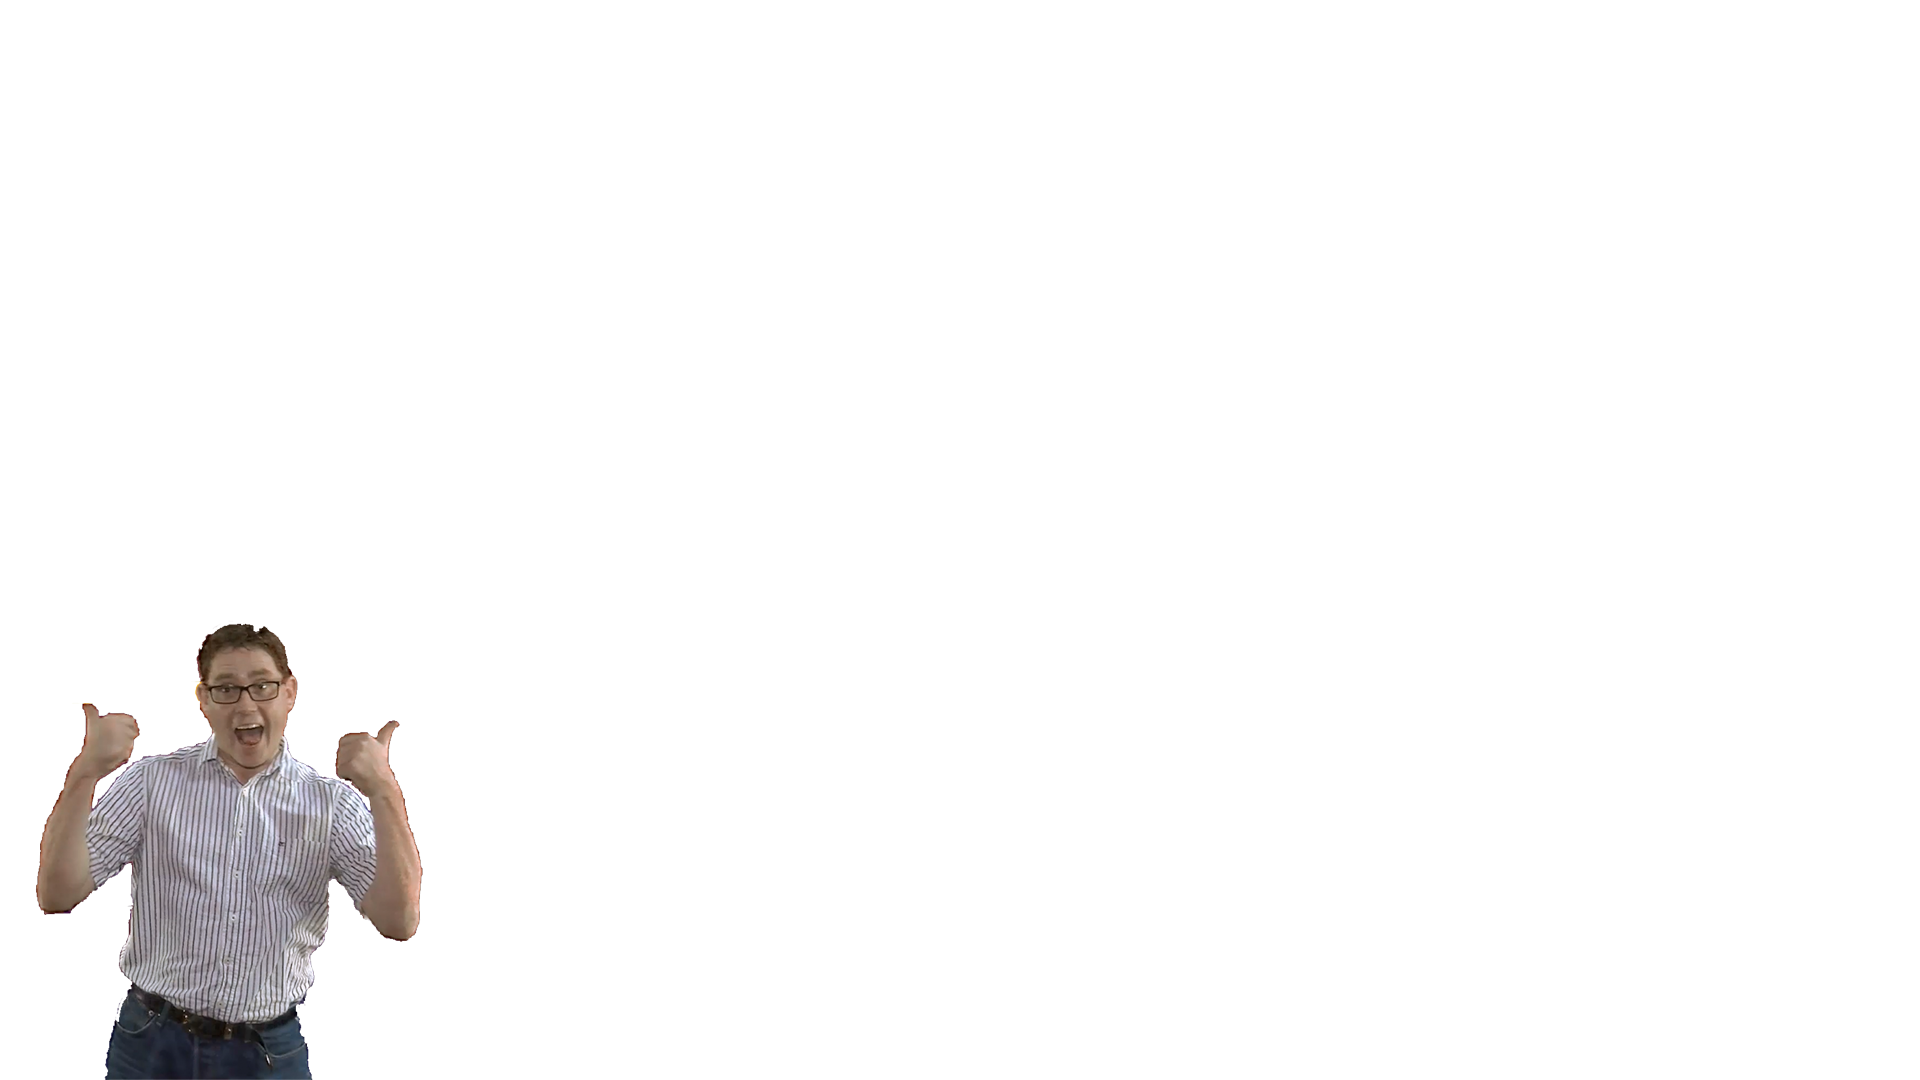
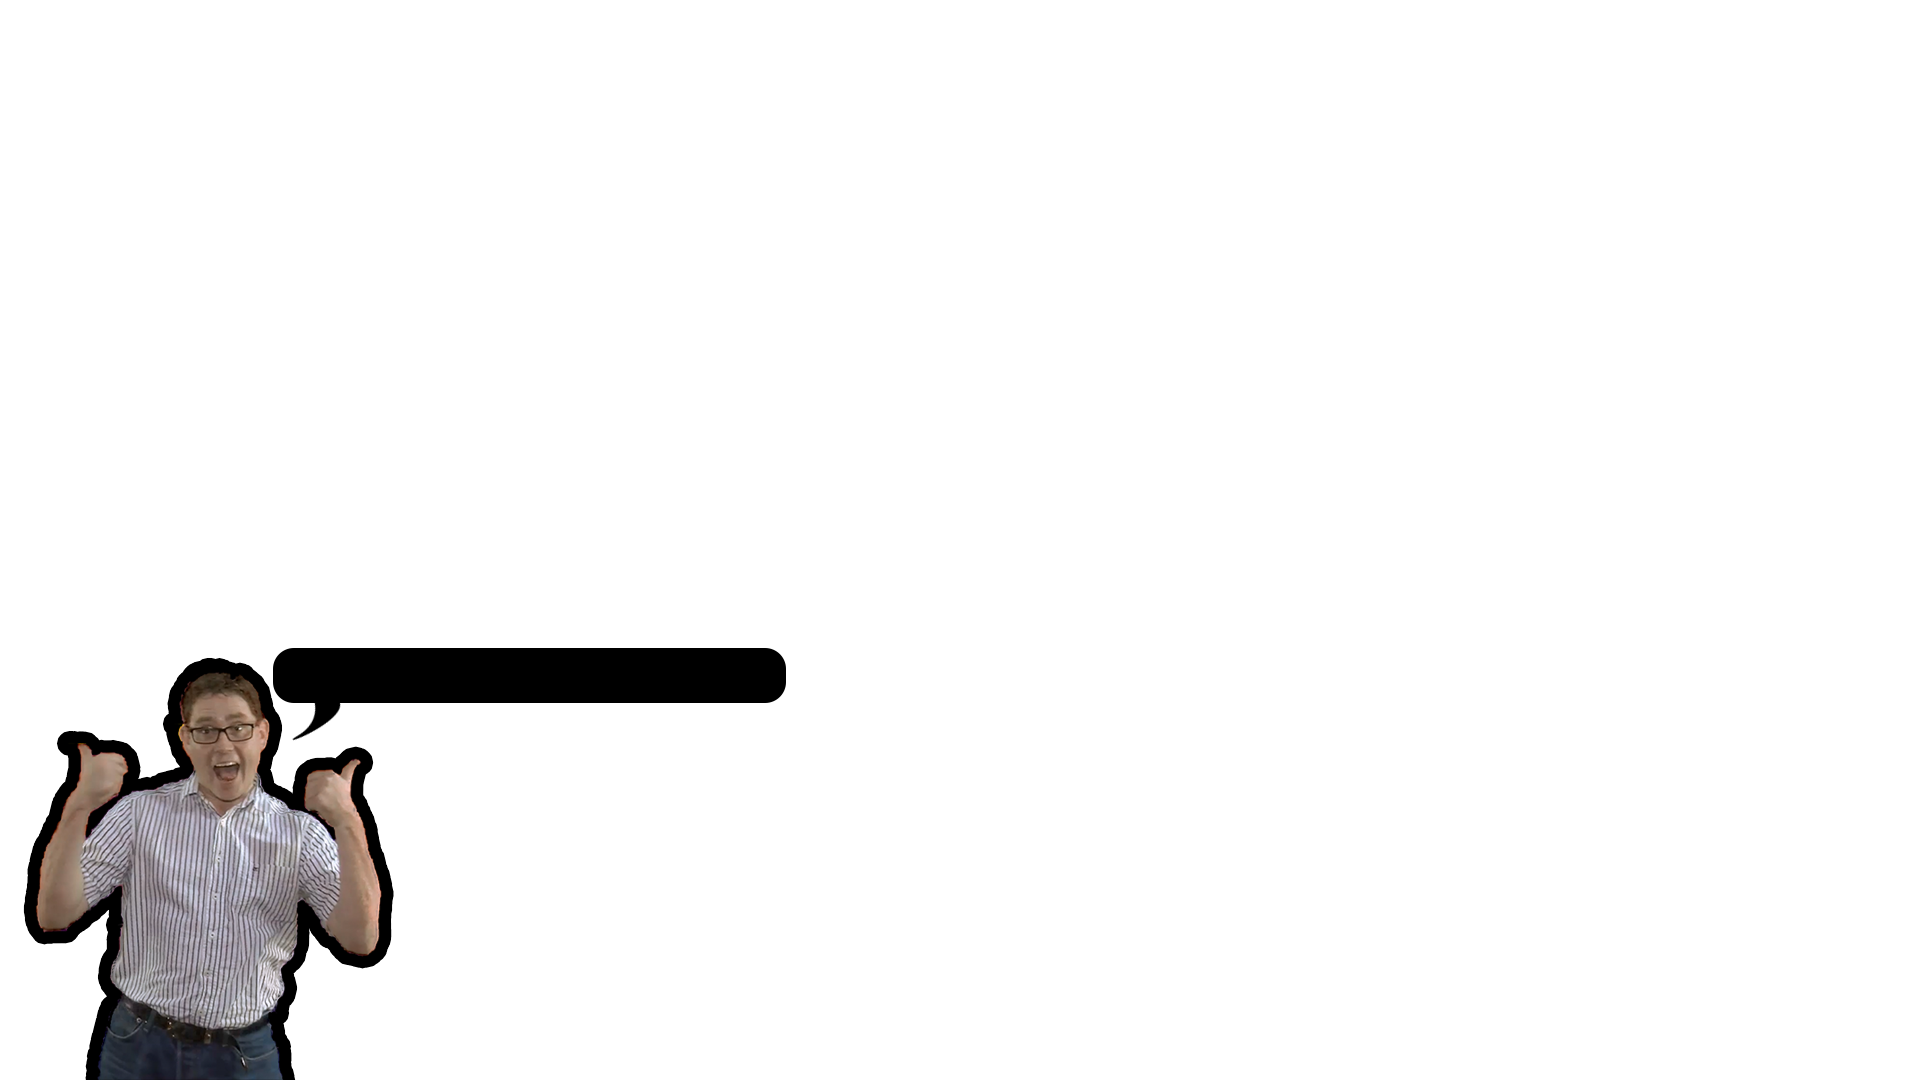
added bubble text

Changed region(s): [[0.0, 0.5806, 0.4062, 1.0]]

diff --git a/css/stylebubble.css b/css/stylebubble.css
@@ -2,7 +2,6 @@
 
 body{
   margin: 0 auto;
-  margin-bottom: 100;
 }
 .ticktext {
 	font-size: 60px;
@@ -24,16 +23,18 @@ font-family: Impact, Charcoal, sans-serif;
   white-space:nowrap;
   display:inline-block;
 font-family: Impact, Charcoal, sans-serif;   
-  font-size: '40px';
+  font-size: '60px';
     font-weight: bold;
   text-transform: uppercase;
 }
 
 #bar {
-	position : absolute;
-	font-family: Impact, Charcoal, sans-serif;
-	bottom : 60px;
-	align: center;
-	font-size: 40px;
-	font-weight: bold;
+        position : absolute;
+font-family: Impact, Charcoal, sans-serif;   
+        bottom : 0;
+        margin-bottom: 50px;
+        align: center;
+	font-size: 60px;
+    font-weight: bold;
 }
+

diff --git a/tickernew.php b/tickernew.php
@@ -1,0 +1,57 @@
+<!DOCTYPE html>
+<title>Example</title>
+
+<!-- Styles -->	
+<style style="text/css">
+.example1 {
+ height: 50px;	
+ overflow: hidden;
+ position: relative;
+}
+.example1 h3 {
+ font-size: 3em;
+ color: white;
+ position: absolute;
+ width: 100%;
+ height: 100%;
+ margin: -300;
+ line-height: 50px;
+ text-align: center;
+ bottom:0;
+ /* Starting position */
+ -moz-transform:translateX(100%);
+ -webkit-transform:translateX(100%);	
+ transform:translateX(100%);
+ /* Apply animation to this element */	
+ -moz-animation: example1 15s linear infinite;
+ -webkit-animation: example1 15s linear infinite;
+ animation: example1 15s linear infinite;
+}
+/* Move it (define the animation) */
+@-moz-keyframes example1 {
+ 0%   { -moz-transform: translateX(100%); }
+ 100% { -moz-transform: translateX(-100%); }
+}
+@-webkit-keyframes example1 {
+ 0%   { -webkit-transform: translateX(100%); }
+ 100% { -webkit-transform: translateX(-100%); }
+}
+@keyframes example1 {
+ 0%   { 
+ -moz-transform: translateX(100%); /* Firefox bug fix */
+ -webkit-transform: translateX(100%); /* Firefox bug fix */
+ transform: translateX(100%); 		
+ }
+ 100% { 
+ -moz-transform: translateX(-100%); /* Firefox bug fix */
+ -webkit-transform: translateX(-100%); /* Firefox bug fix */
+ transform: translateX(-100%); 
+ }
+}
+</style>
+
+<!-- HTML -->	
+<div class="example1">
+<h3><?php include "ticker.txt"; ?> </h3>
+</div>
+

diff --git a/squig.php b/squig.php
@@ -1,14 +1,22 @@
+<!DOCTYPE html>
+
+
+
 <html>
 <head>
 <link href='https://fonts.googleapis.com/css?family=Exo:400,900' rel='stylesheet' type='text/css'>
 <title>xer0.tv</title>
+
+
+ <link rel="stylesheet" href="css/style.css">
+<link href="https://fonts.googleapis.com/css?family=Bowlby+One+SC" rel="stylesheet">
 
 <style>
 html, body{
   height: 100%;
 }
 body { 
-			background-image: url(squig.png) ;
+			background-image: url(visuals/fun/squig.png) ;
 			background-position: center center;
 			background-repeat:  no-repeat;
 			background-attachment: fixed;
@@ -18,14 +26,7 @@ body {
   
 }
 
-div, body{
-	margin-right: 51px;
-	margin-left: 120px;
-	margin-bottom: 51px;
-	padding: 0;
-	font-family: exo, sans-serif;
-	margin-top: 353px;
-}
+
 .wrapper {
   height: 100%; 
   width: 100%; 
@@ -48,14 +49,18 @@ div, body{
 </style>
 
 </head>
+
+
 <body>
-	<div><h2><font color="white">Dummy Content</font></h2></div>
-<!--
-<div class="wrapper">
-  <div class="message">
-    <h1>xer0.overlay</h1>    
-  </div>
+
+  <div id="bar" class = "ticker-container">
+	<div class = "ticker-text"><div id="ticktext">
+    <img src="blogo.png"></img><?php include("ticker.txt"); ?></div>
+	</div>
 </div>
--->
+  <script src='http://cdnjs.cloudflare.com/ajax/libs/jquery/2.1.3/jquery.min.js'></script>
+
+    <script src="js/index.js"></script>
+
 </body>
 </html>

diff --git a/externalcode.php b/externalcode.php
@@ -2,6 +2,7 @@
 
 $eXternal = strip_tags($_POST['eXternal']);
 $stocks = strip_tags($_POST['stocks']);
+$squigbubble = strip_tags($_POST['squigbubble']);
 
 // sky broadcasting
 
@@ -147,6 +148,32 @@ $external = "/home/pi/led-matrix-controller/www/external/ticker.txt";
 $visExternalCheck = isset($_POST['updateext']); 
 $fileext = '/home/pi/led-matrix-controller/www/external/clear.txt';
 $newfileext = '/home/pi/led-matrix-controller/www/external/ticker.txt';
+$newfilesquig = '/home/pi/led-matrix-controller/www/external/squig.txt';
+
+//clear squig bubble
+// clear the old external file (ignore)
+if ($squigbubble != ""){
+if (!copy($fileext, $newfilesquig)) { 
+echo "<h3>Sq-CLR: 🚫</h3>   "; 
+} 
+else{
+$old_path = getcwd();
+chdir('/home/pi/led-matrix-controller/www/external/scripts/fun/');
+$output = shell_exec('./squig.sh > /dev/null 2>/dev/null &');
+chdir($old_path);
+// write the new external file (igonore)
+$sq = fopen ($newfilesquig, "a");
+if ($sq) {
+fwrite ($sq, $squigbubble);
+fclose ($sq);
+}
+echo "<h3>Sq-CLR: ✅</h3>   ";
+}
+}
+
+
+
+
 
 
 ?>

diff --git a/external.php b/external.php
@@ -55,8 +55,13 @@
               <label class="mdl-radio mdl-js-radio mdl-js-ripple-effect" for="uncle">
                 <input type="radio" id="uncle" class="mdl-radio__button" name="eXternal" value="uncle">
                 <span class="mdl-radio__label">Uncle Squig
-                </span>
-              </label><br> 
+                </span>  
+              </label><div class="mdl-textfield mdl-js-textfield mdl-textfield--floating-label">
+                            <input name="squigbubble" class="mdl-textfield__input" type="text">
+                            <label class="mdl-textfield__label" for="squigbubble">Bubble Text
+                </label>
+                        </div>
+                        <br>
               <label class="mdl-radio mdl-js-radio mdl-js-ripple-effect" for="florian">
                 <input type="radio" id="florian" class="mdl-radio__button" name="eXternal" value="florian">
                 <span class="mdl-radio__label">Florian 

diff --git a/visuals/fun/squig.php b/visuals/fun/squig.php
@@ -15,16 +15,17 @@ body {
 			background-size:  cover;
 			background-width: 100%;
 			background-height: 100%;
+			color: white;
   
 }
 
 div, body{
 	margin-right: 51px;
-	margin-left: 120px;
+	margin-left: 99px;
 	margin-bottom: 51px;
 	padding: 0;
 	font-family: exo, sans-serif;
-	margin-top: 353px;
+	margin-top: 435px;
 }
 .wrapper {
   height: 100%; 
@@ -41,7 +42,7 @@ div, body{
   display: block;
   position: absolute;
   background-color: rgba(0,0,0,0.6);
-  color: #fff;
+  color: #000;
   padding: 0.5em;
 }
 
@@ -49,7 +50,7 @@ div, body{
 
 </head>
 <body>
-	<div><h2><font color="white">Dummy Content</font></h2></div>
+	<div><h2><?php include "../../squig.txt";?></h2></div>
 <!--
 <div class="wrapper">
   <div class="message">
